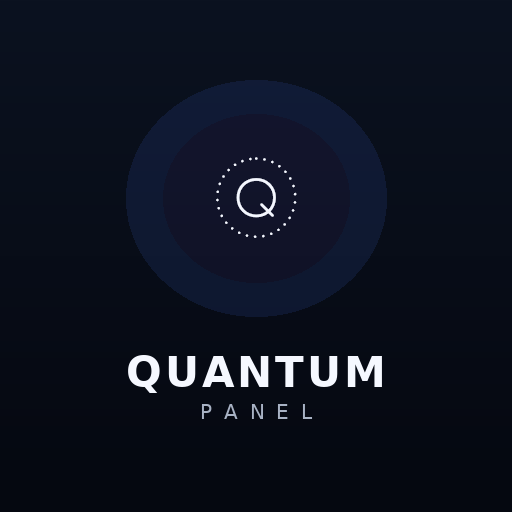
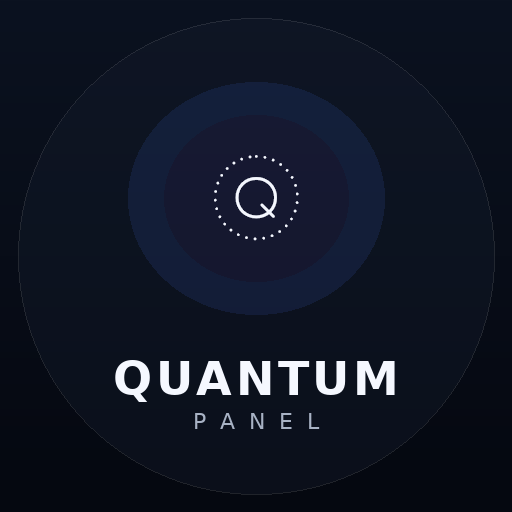
fix(brand): refine approved lockup — larger mark, soft disc only
Stop rewriting; base on the dark QUANTUM/PANEL version that was close.
No hard circle clip.

diff --git a/console/scripts/render-panel-bot-avatar.py b/console/scripts/render-panel-bot-avatar.py
@@ -1,5 +1,11 @@
 #!/usr/bin/env python3
-"""Render Quantum Panel bot avatar — circular badge, large orbit mark."""
+"""Quantum Panel bot avatar — approved dark lockup + larger mark + soft circle disc.
+
+Base: ef831dc (the version that was «already close»). Only deltas:
+  • bigger official orbit mark
+  • soft circular substrate (no hard clip)
+  • same QUANTUM / PANEL typography
+"""
 
 from __future__ import annotations
 
@@ -18,37 +24,44 @@ FONT_LIGHT = "/usr/share/fonts/truetype/dejavu/DejaVuSans.ttf"
 
 SIZE = 512
 CX = CY = SIZE // 2
-CIRCLE_R = 246  # full circle badge — Telegram crops to circle anyway
+BG_TOP = (11, 18, 32)
+BG_BOTTOM = (5, 8, 16)
 WHITE = (245, 248, 255)
 SILVER = (168, 178, 196)
-DISC_CENTER = (22, 30, 48)
-DISC_EDGE = (10, 14, 24)
-BG_OUTER = (5, 8, 14)
 
 
-def _outer_bg() -> Image.Image:
-    return Image.new("RGB", (SIZE, SIZE), BG_OUTER)
+def _dark_canvas() -> Image.Image:
+    canvas = Image.new("RGB", (SIZE, SIZE))
+    draw = ImageDraw.Draw(canvas)
+    for y in range(SIZE):
+        t = y / max(SIZE - 1, 1)
+        color = tuple(int(BG_TOP[i] * (1 - t) + BG_BOTTOM[i] * t) for i in range(3))
+        draw.line([(0, y), (SIZE, y)], fill=color)
+    return canvas
 
 
-def _draw_disc(draw: ImageDraw.ImageDraw) -> None:
-    """Circular substrate uniting logo + wordmark."""
-    x0, y0 = CX - CIRCLE_R, CY - CIRCLE_R
-    x1, y1 = CX + CIRCLE_R, CY + CIRCLE_R
-    # Soft radial fill (layered rings)
-    steps = 24
-    for i in range(steps, 0, -1):
-        t = i / steps
-        r = int(CIRCLE_R * t)
-        color = tuple(int(DISC_CENTER[j] * t + DISC_EDGE[j] * (1 - t)) for j in range(3))
-        draw.ellipse((CX - r, CY - r, CX + r, CY + r), fill=color)
-    # Hairline ring
-    draw.ellipse((x0, y0, x1, y1), outline=(255, 255, 255, 36), width=2)
-    draw.ellipse((x0 + 3, y0 + 3, x1 - 3, y1 - 3), outline=(255, 255, 255, 12), width=1)
+def _soft_circle_disc(canvas: Image.Image, *, radius: int) -> Image.Image:
+    """Gentle circular substrate — unifies mark + type, keeps approved dark bg."""
+    layer = Image.new("RGBA", (SIZE, SIZE), (0, 0, 0, 0))
+    draw = ImageDraw.Draw(layer)
+    x0, y0 = CX - radius, CY - radius
+    x1, y1 = CX + radius, CY + radius
+    draw.ellipse((x0, y0, x1, y1), fill=(20, 28, 44, 95))
+    draw.ellipse((x0, y0, x1, y1), outline=(255, 255, 255, 28), width=1)
+    base = canvas.convert("RGBA")
+    return Image.alpha_composite(base, layer).convert("RGB")
 
 
-def _logo_glow(draw: ImageDraw.ImageDraw, *, cy: int) -> None:
-    draw.ellipse((CX - 132, cy - 100, CX + 132, cy + 100), fill=(72, 118, 255, 22))
-    draw.ellipse((CX - 96, cy - 72, CX + 96, cy + 72), fill=(140, 92, 255, 14))
+def _add_glow(canvas: Image.Image, *, cx: int, cy: int, rx: int, ry: int) -> Image.Image:
+    layer = Image.new("RGBA", (SIZE, SIZE), (0, 0, 0, 0))
+    draw = ImageDraw.Draw(layer)
+    draw.ellipse((cx - rx, cy - ry, cx + rx, cy + ry), fill=(72, 118, 255, 28))
+    draw.ellipse(
+        (cx - int(rx * 0.72), cy - int(ry * 0.72), cx + int(rx * 0.72), cy + int(ry * 0.72)),
+        fill=(140, 92, 255, 18),
+    )
+    base = canvas.convert("RGBA")
+    return Image.alpha_composite(base, layer).convert("RGB")
 
 
 def _white_mark(size_px: int) -> Image.Image:
@@ -67,12 +80,12 @@ def _white_mark(size_px: int) -> Image.Image:
     return out
 
 
-def _paste_mark(base: Image.Image, *, mark_px: int, top: int) -> None:
+def _paste_mark(canvas: Image.Image, *, mark_px: int, top: int) -> None:
     mark = _white_mark(mark_px)
     x = (SIZE - mark_px) // 2
-    layer = base.convert("RGBA")
-    layer.paste(mark, (x, top), mark)
-    base.paste(layer.convert("RGB"))
+    base = canvas.convert("RGBA")
+    base.paste(mark, (x, top), mark)
+    canvas.paste(base.convert("RGB"))
 
 
 def _draw_spaced(
@@ -93,70 +106,30 @@ def _draw_spaced(
         x += widths[i] + tracking
 
 
-def _render(
-    *,
-    mark_px: int,
-    mark_top: int,
-    quantum_y: int,
-    panel_y: int,
-    quantum_size: int,
-    panel_size: int,
-    quantum_tracking: float,
-    panel_tracking: float,
-    out: Path,
-) -> None:
-    canvas = _outer_bg().convert("RGBA")
-    draw = ImageDraw.Draw(canvas)
-    _draw_disc(draw)
-    mark_cy = mark_top + mark_px // 2
-    _logo_glow(draw, cy=mark_cy)
-    _paste_mark(canvas, mark_px=mark_px, top=mark_top)
-
-    draw = ImageDraw.Draw(canvas)
-    font_q = ImageFont.truetype(FONT_BOLD, quantum_size)
-    font_p = ImageFont.truetype(FONT_LIGHT, panel_size)
-    _draw_spaced(draw, "QUANTUM", y=quantum_y, font=font_q, fill=WHITE, tracking=quantum_tracking)
-    _draw_spaced(draw, "PANEL", y=panel_y, font=font_p, fill=SILVER, tracking=panel_tracking)
-
-    # Clip to circle so square file = round badge
-    mask = Image.new("L", (SIZE, SIZE), 0)
-    ImageDraw.Draw(mask).ellipse(
-        (CX - CIRCLE_R, CY - CIRCLE_R, CX + CIRCLE_R, CY + CIRCLE_R),
-        fill=255,
-    )
-    outer = Image.new("RGBA", (SIZE, SIZE), (*BG_OUTER, 255))
-    outer.paste(canvas, (0, 0), mask)
-    outer.convert("RGB").save(out, optimize=True)
+def _draw_lockup(draw: ImageDraw.ImageDraw) -> None:
+    font_quantum = ImageFont.truetype(FONT_BOLD, 46)
+    font_panel = ImageFont.truetype(FONT_LIGHT, 22)
+    _draw_spaced(draw, "QUANTUM", y=352, font=font_quantum, fill=WHITE, tracking=3.5)
+    _draw_spaced(draw, "PANEL", y=408, font=font_panel, fill=SILVER, tracking=14)
 
 
 def render_icon() -> None:
-    """Telegram avatar — large mark inside circular badge."""
-    _render(
-        mark_px=268,
-        mark_top=44,
-        quantum_y=328,
-        panel_y=378,
-        quantum_size=44,
-        panel_size=21,
-        quantum_tracking=3.2,
-        panel_tracking=13,
-        out=OUT_ICON,
-    )
+    canvas = _dark_canvas()
+    canvas = _soft_circle_disc(canvas, radius=238)
+    mark_px, top = 232, 82
+    cy = top + mark_px // 2
+    canvas = _add_glow(canvas, cx=SIZE // 2, cy=cy, rx=128, ry=116)
+    _paste_mark(canvas, mark_px=mark_px, top=top)
+    draw = ImageDraw.Draw(canvas)
+    _draw_lockup(draw)
+    canvas.save(OUT_ICON, optimize=True)
 
 
 def render_lockup() -> None:
-    """Same badge, slightly more air around text."""
-    _render(
-        mark_px=255,
-        mark_top=52,
-        quantum_y=322,
-        panel_y=372,
-        quantum_size=42,
-        panel_size=20,
-        quantum_tracking=3,
-        panel_tracking=12,
-        out=OUT_LOCKUP,
-    )
+    """Alias — one canonical avatar."""
+    import shutil
+
+    shutil.copy2(OUT_ICON, OUT_LOCKUP)
 
 
 def main() -> None:
